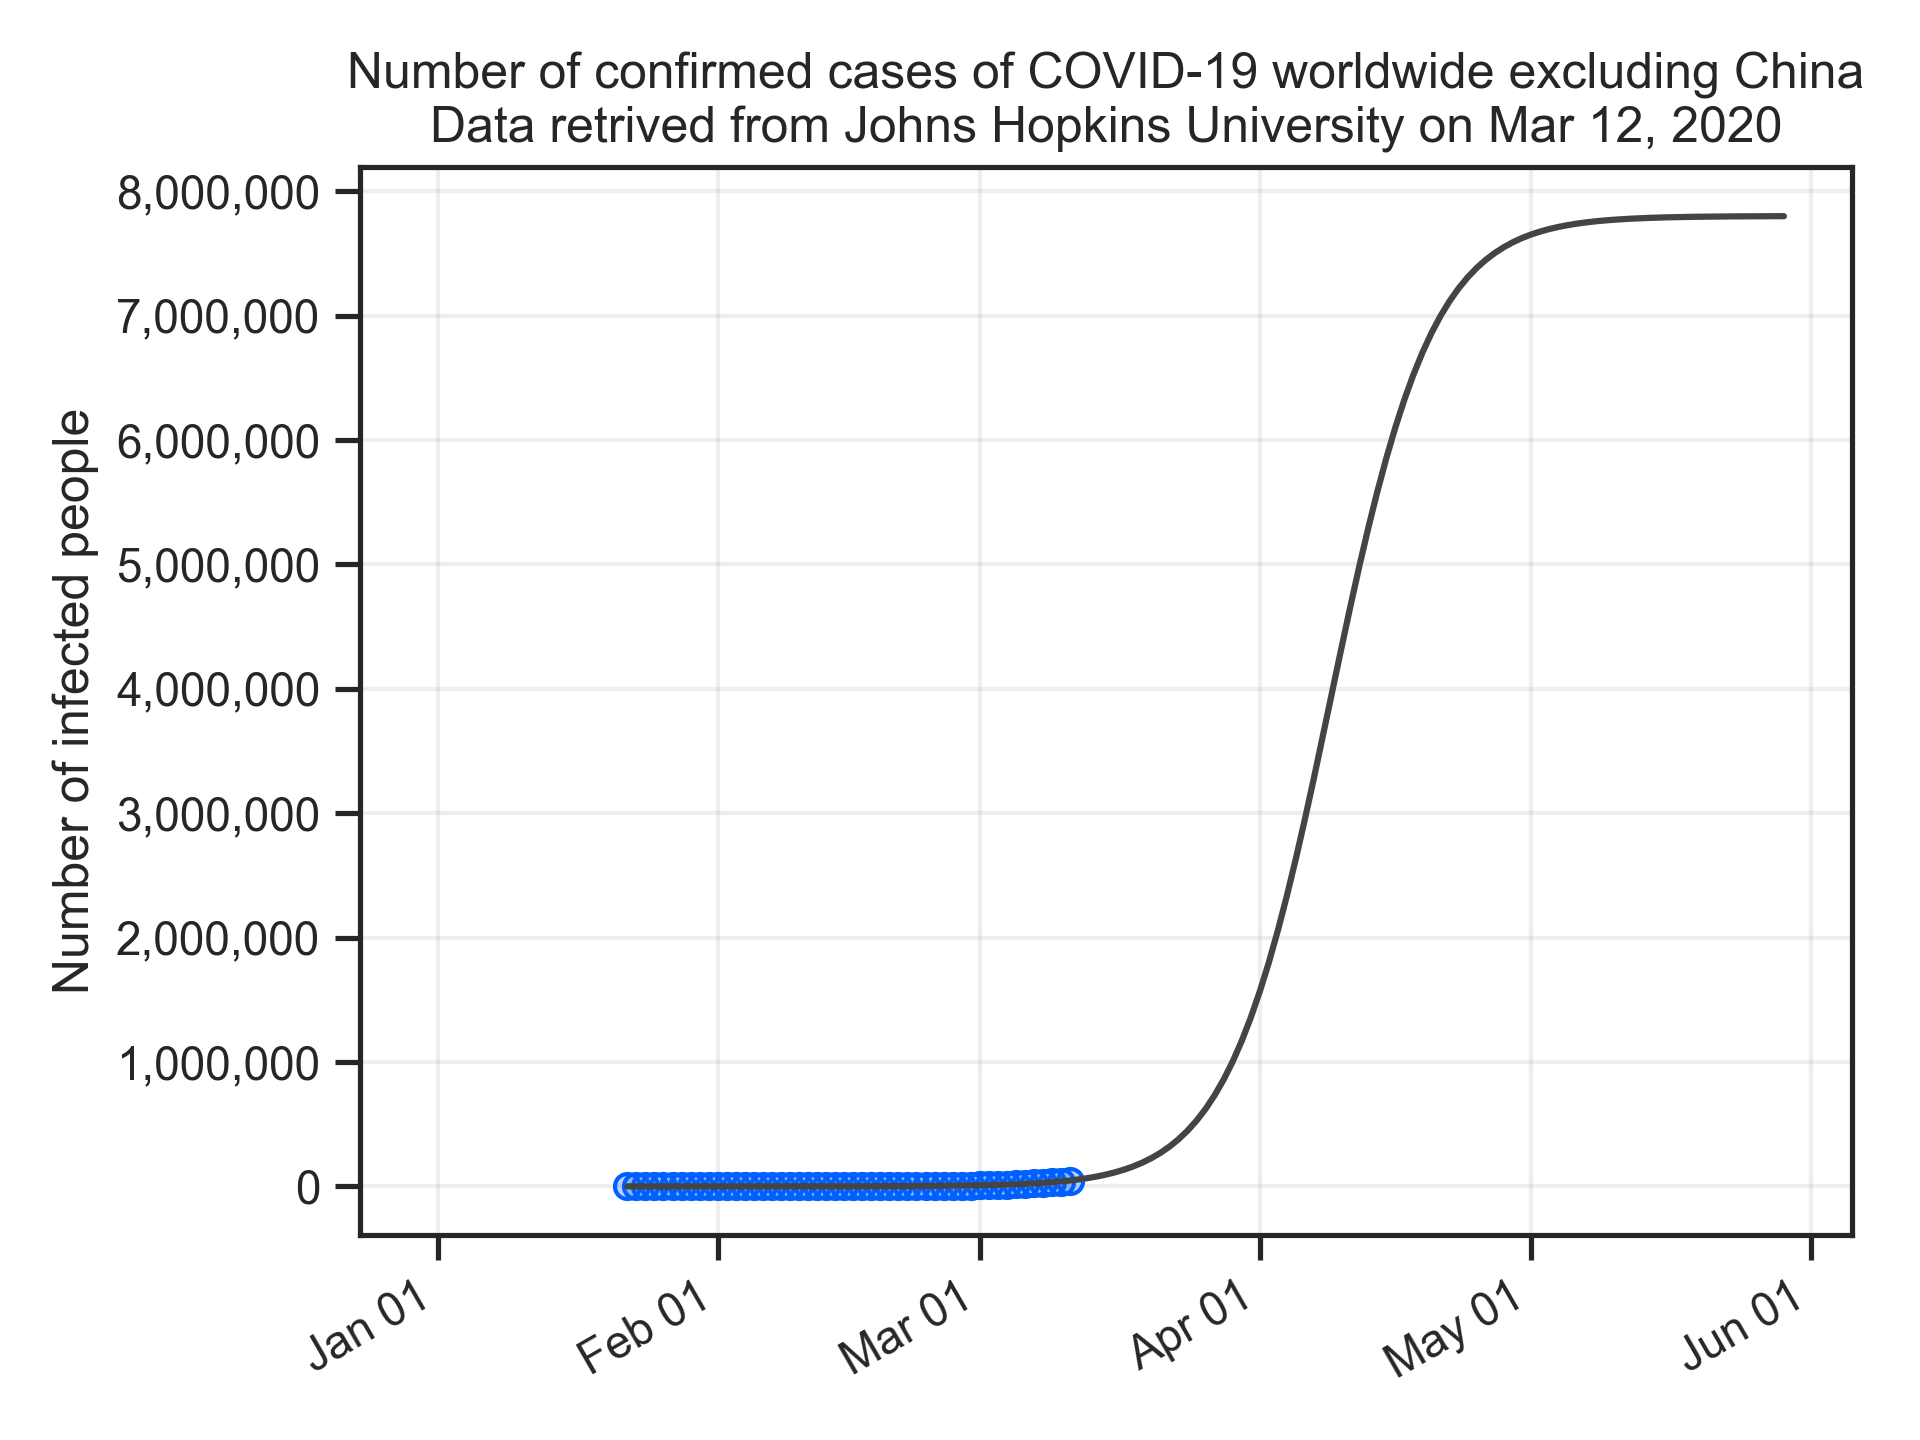
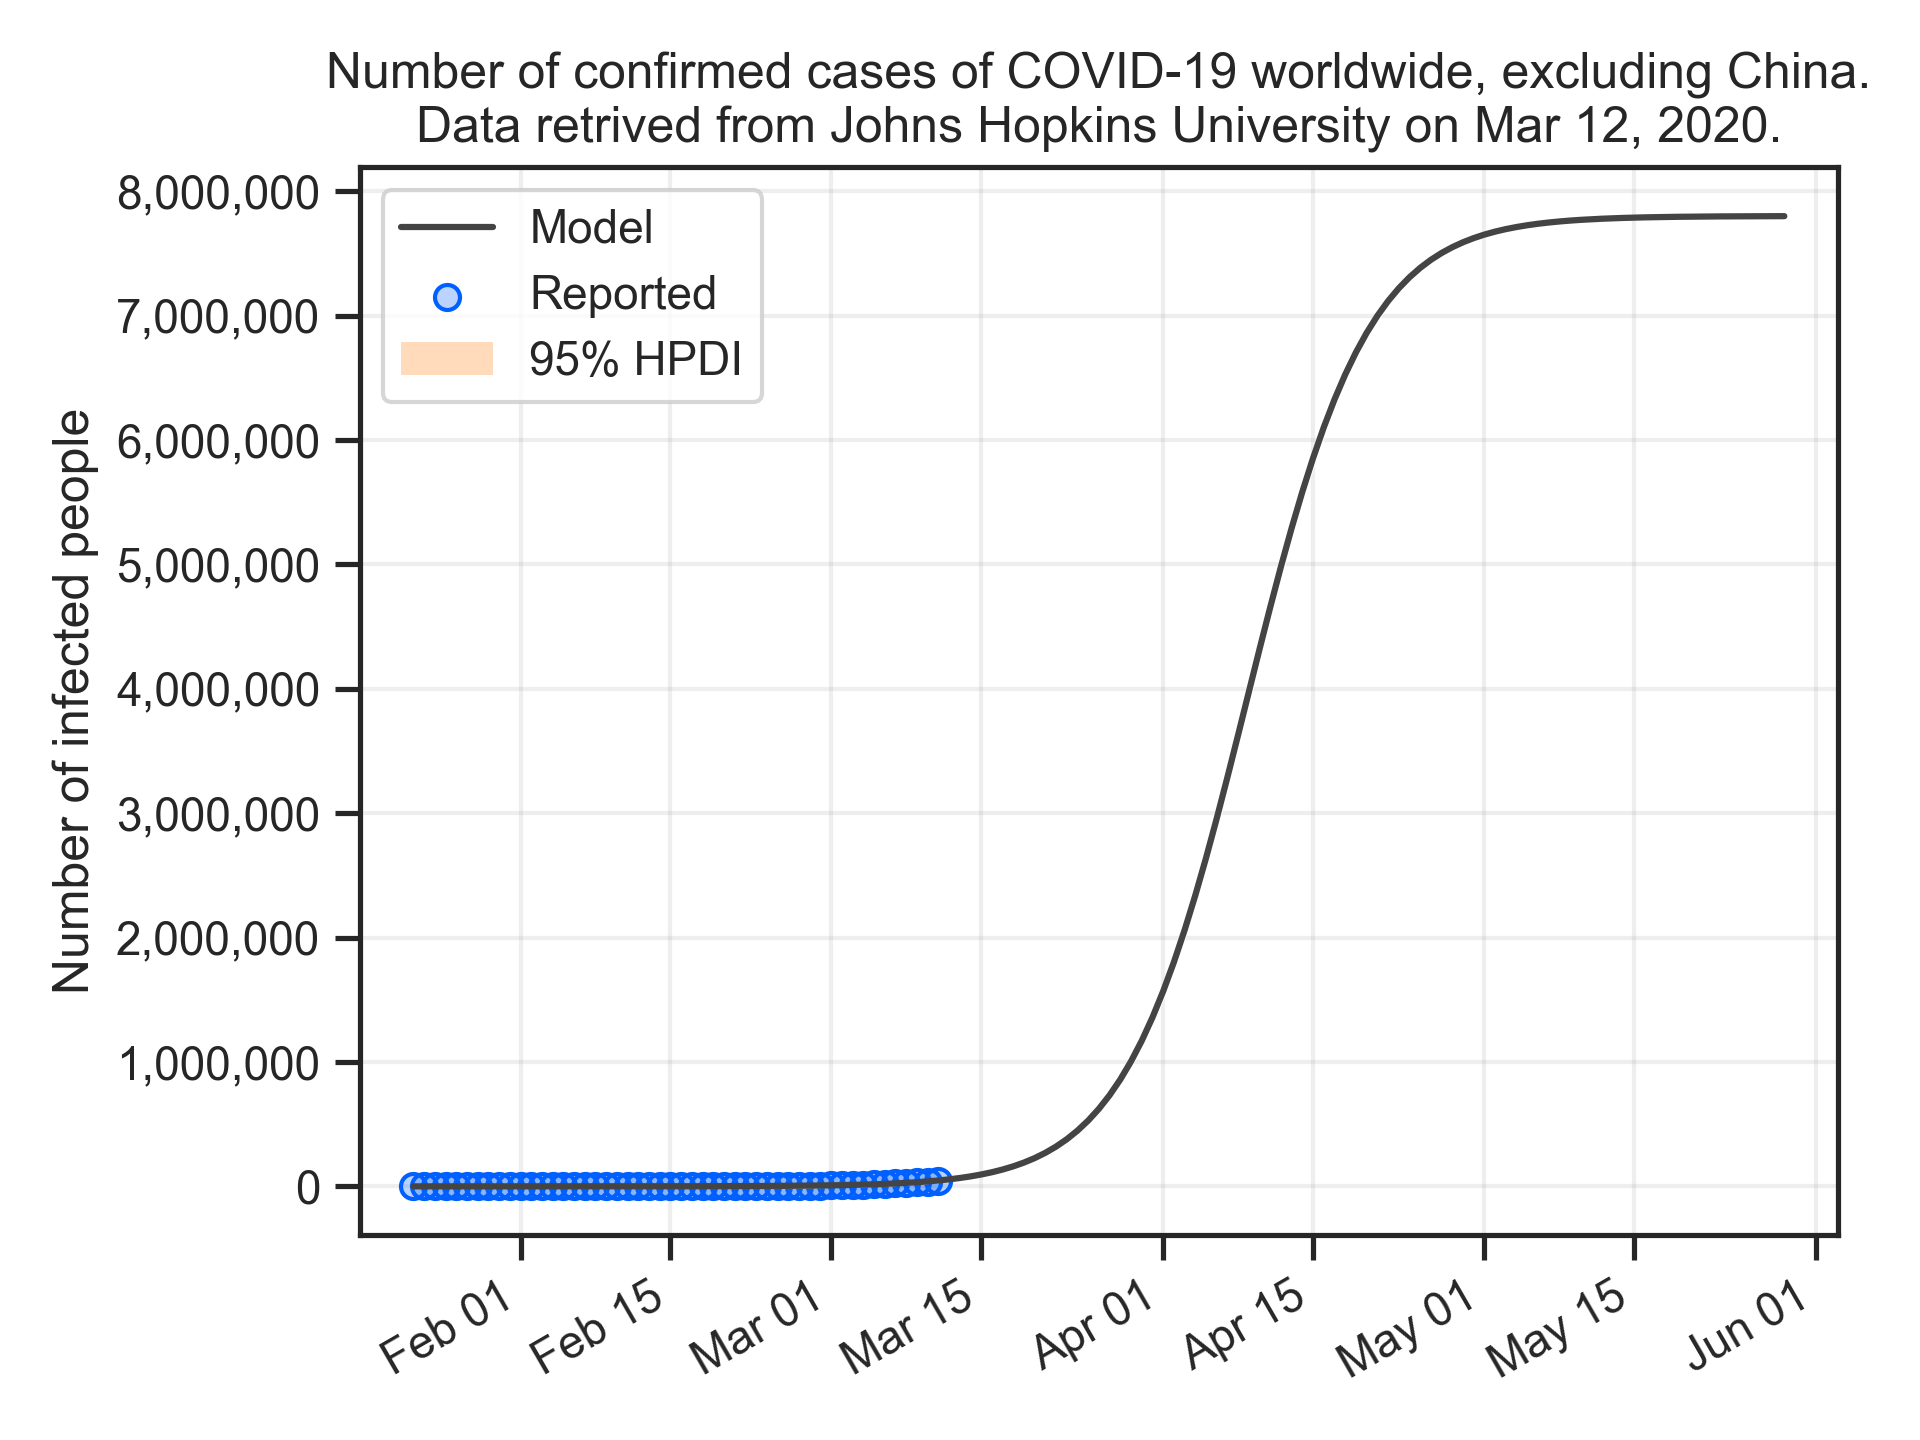
Work

diff --git a/code/run_model.py b/code/run_model.py
@@ -53,6 +53,10 @@ time_series_19-covid-Confirmed.csv"
     # 1 means all, 0.5 means 50% of sick people get reported)
     fraction_cofirmed = 1
 
+    # Width of HPDI (highest posterior density interval) that is used
+    # to plot the shaded region around the predicted mean line.
+    hpdi_width: float = 0.95
+
     population_size: float = 7800000
 
     # Difference between the maximum number of confirmed cases
@@ -66,7 +70,7 @@ time_series_19-covid-Confirmed.csv"
 
     mu_line_color: str = "#444444"
     mu_hpdi_color: str = "#44444477"
-    cases_hpdi_color: str = "#ff770066"
+    cases_hpdi_color: str = "#ff770044"
 
     marker: str = "o"
 
@@ -327,7 +331,8 @@ def plot_data_and_model(fit, dates, cases, settings):
     ax.scatter(dates, cases,
                marker=settings.marker,
                color=settings.marker_color,
-               edgecolor=settings.marker_edgecolor)
+               edgecolor=settings.marker_edgecolor,
+               label="Reported")
 
     # Plot posterior
     # ---------
@@ -358,13 +363,13 @@ def plot_data_and_model(fit, dates, cases, settings):
                                count=day_all_infected, dtstart=dates[0]))
 
     x_dates = np.array(x_dates)
-    ax.plot(x_dates, mu_mean, color=settings.mu_line_color)
+    ax.plot(x_dates, mu_mean, color=settings.mu_line_color, label="Model")
 
     # Plot HPDI interval
     # --------
 
     hpdi = np.apply_along_axis(tarpan.shared.stats.hpdi, 1, mu,
-                               probability=0.95)
+                               probability=settings.hpdi_width)
 
     ax.fill_between(x_dates, hpdi[:, 0], hpdi[:, 1],
                     facecolor=settings.mu_hpdi_color)
@@ -379,12 +384,14 @@ def plot_data_and_model(fit, dates, cases, settings):
     simulated_cases = np.array(simulated_cases)
 
     cases_hpdi = np.apply_along_axis(
-        tarpan.shared.stats.hpdi, 1, simulated_cases, probability=0.95)
+        tarpan.shared.stats.hpdi, 1, simulated_cases,
+        probability=settings.hpdi_width)
 
     ax.fill_between(x_dates,
                     cases_hpdi[:, 0], cases_hpdi[:, 1],
                     facecolor=settings.cases_hpdi_color,
-                    linewidth=0)
+                    linewidth=0,
+                    label=f"{round(settings.hpdi_width*100)}% HPDI")
 
     # Format plot
     # ----------
@@ -396,8 +403,8 @@ def plot_data_and_model(fit, dates, cases, settings):
     date_str = datetime.now().strftime('%b %d, %Y')
 
     title = (
-        "Number of confirmed cases of COVID-19 worldwide excluding China\n"
-        f"Data retrived from Johns Hopkins University on {date_str}"
+        "Number of confirmed cases of COVID-19 worldwide, excluding China.\n"
+        f"Data retrived from Johns Hopkins University on {date_str}."
     )
 
     ax.set_title(title)
@@ -410,6 +417,7 @@ def plot_data_and_model(fit, dates, cases, settings):
     ax.get_yaxis().set_major_formatter(
         matplotlib.ticker.FuncFormatter(lambda x, p: format(int(x), ',')))
 
+    ax.legend()
     fig.tight_layout()
 
     # Save images
@@ -420,6 +428,8 @@ def plot_data_and_model(fit, dates, cases, settings):
     # Plot predictions into the future
     # ---------
 
+    day_margin = timedelta(days=5)
+    ax.set_xlim([dates[0] - day_margin, x_dates[-1] + day_margin])
     info_path = InfoPath(**settings.info_path.__dict__)
     filename_date = datetime.now().strftime('%Y_%m_%d')
     filename = f"{filename_date}_extrapolated.png"
@@ -431,13 +441,13 @@ def plot_data_and_model(fit, dates, cases, settings):
 
     last_data = cases[n - 1]
     margins = last_data * 0.1
-    day_margin = timedelta(days=1)
+    day_margin = timedelta(days=2)
     ax.set_xlim([dates[0] - day_margin, dates[-1] + day_margin])
     ax.set_ylim([0 - margins, last_data + margins])
     filename = f"{filename_date}_observed.png"
     image_path = os.path.join(settings.plots_dir, filename)
     fig.savefig(image_path, dpi=info_path.dpi)
-    plt.show()
+    # plt.show()
 
 
 def do_work():
@@ -447,10 +457,10 @@ def do_work():
     check_all_days_present(dates)
     settings.data = data_for_stan(cases, settings=settings)
     output_dir = os.path.join(settings.info_path.dir(), "stan_cache")
-    shutil.rmtree(output_dir, ignore_errors=True)
-    os.makedirs(output_dir, exist_ok=True)
-    fit = run_stan(output_dir=output_dir, settings=settings)
-    # fit = run(func=run_stan, settings=settings)
+    # shutil.rmtree(output_dir, ignore_errors=True)
+    # os.makedirs(output_dir, exist_ok=True)
+    # fit = run_stan(output_dir=output_dir, settings=settings)
+    fit = run(func=run_stan, settings=settings)
     plot_data_and_model(fit=fit, dates=dates, cases=cases, settings=settings)
 
 
